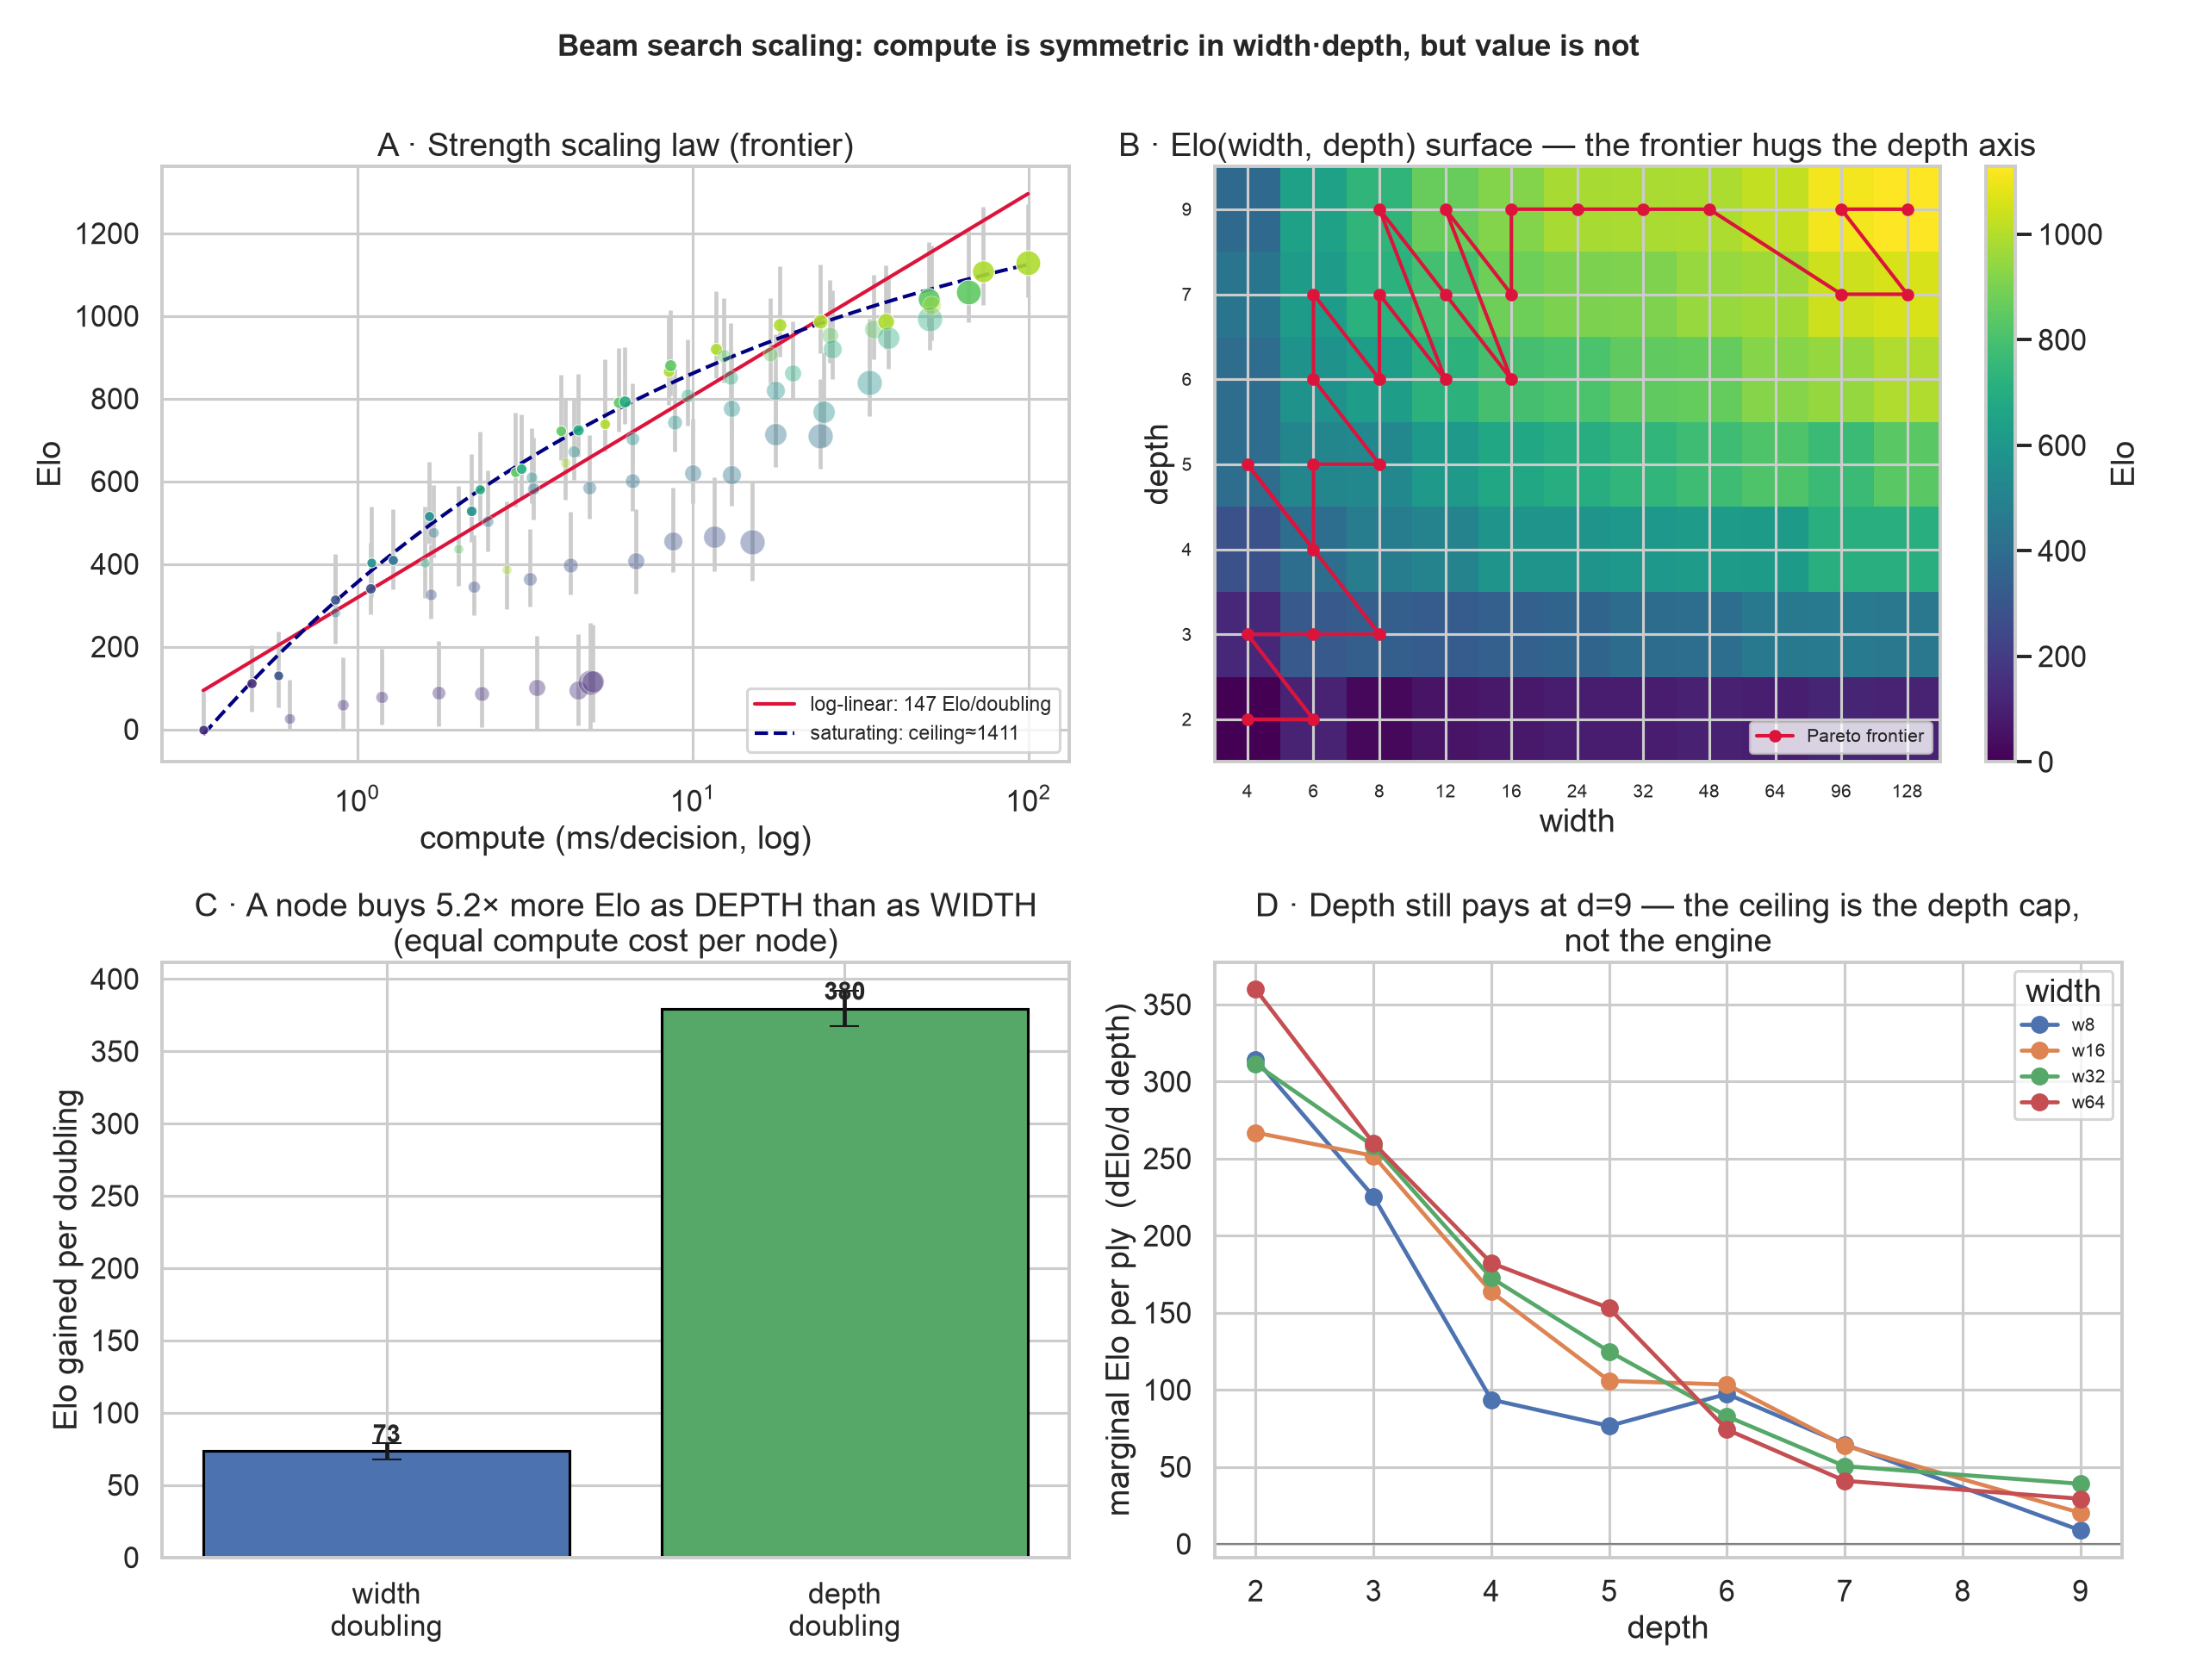
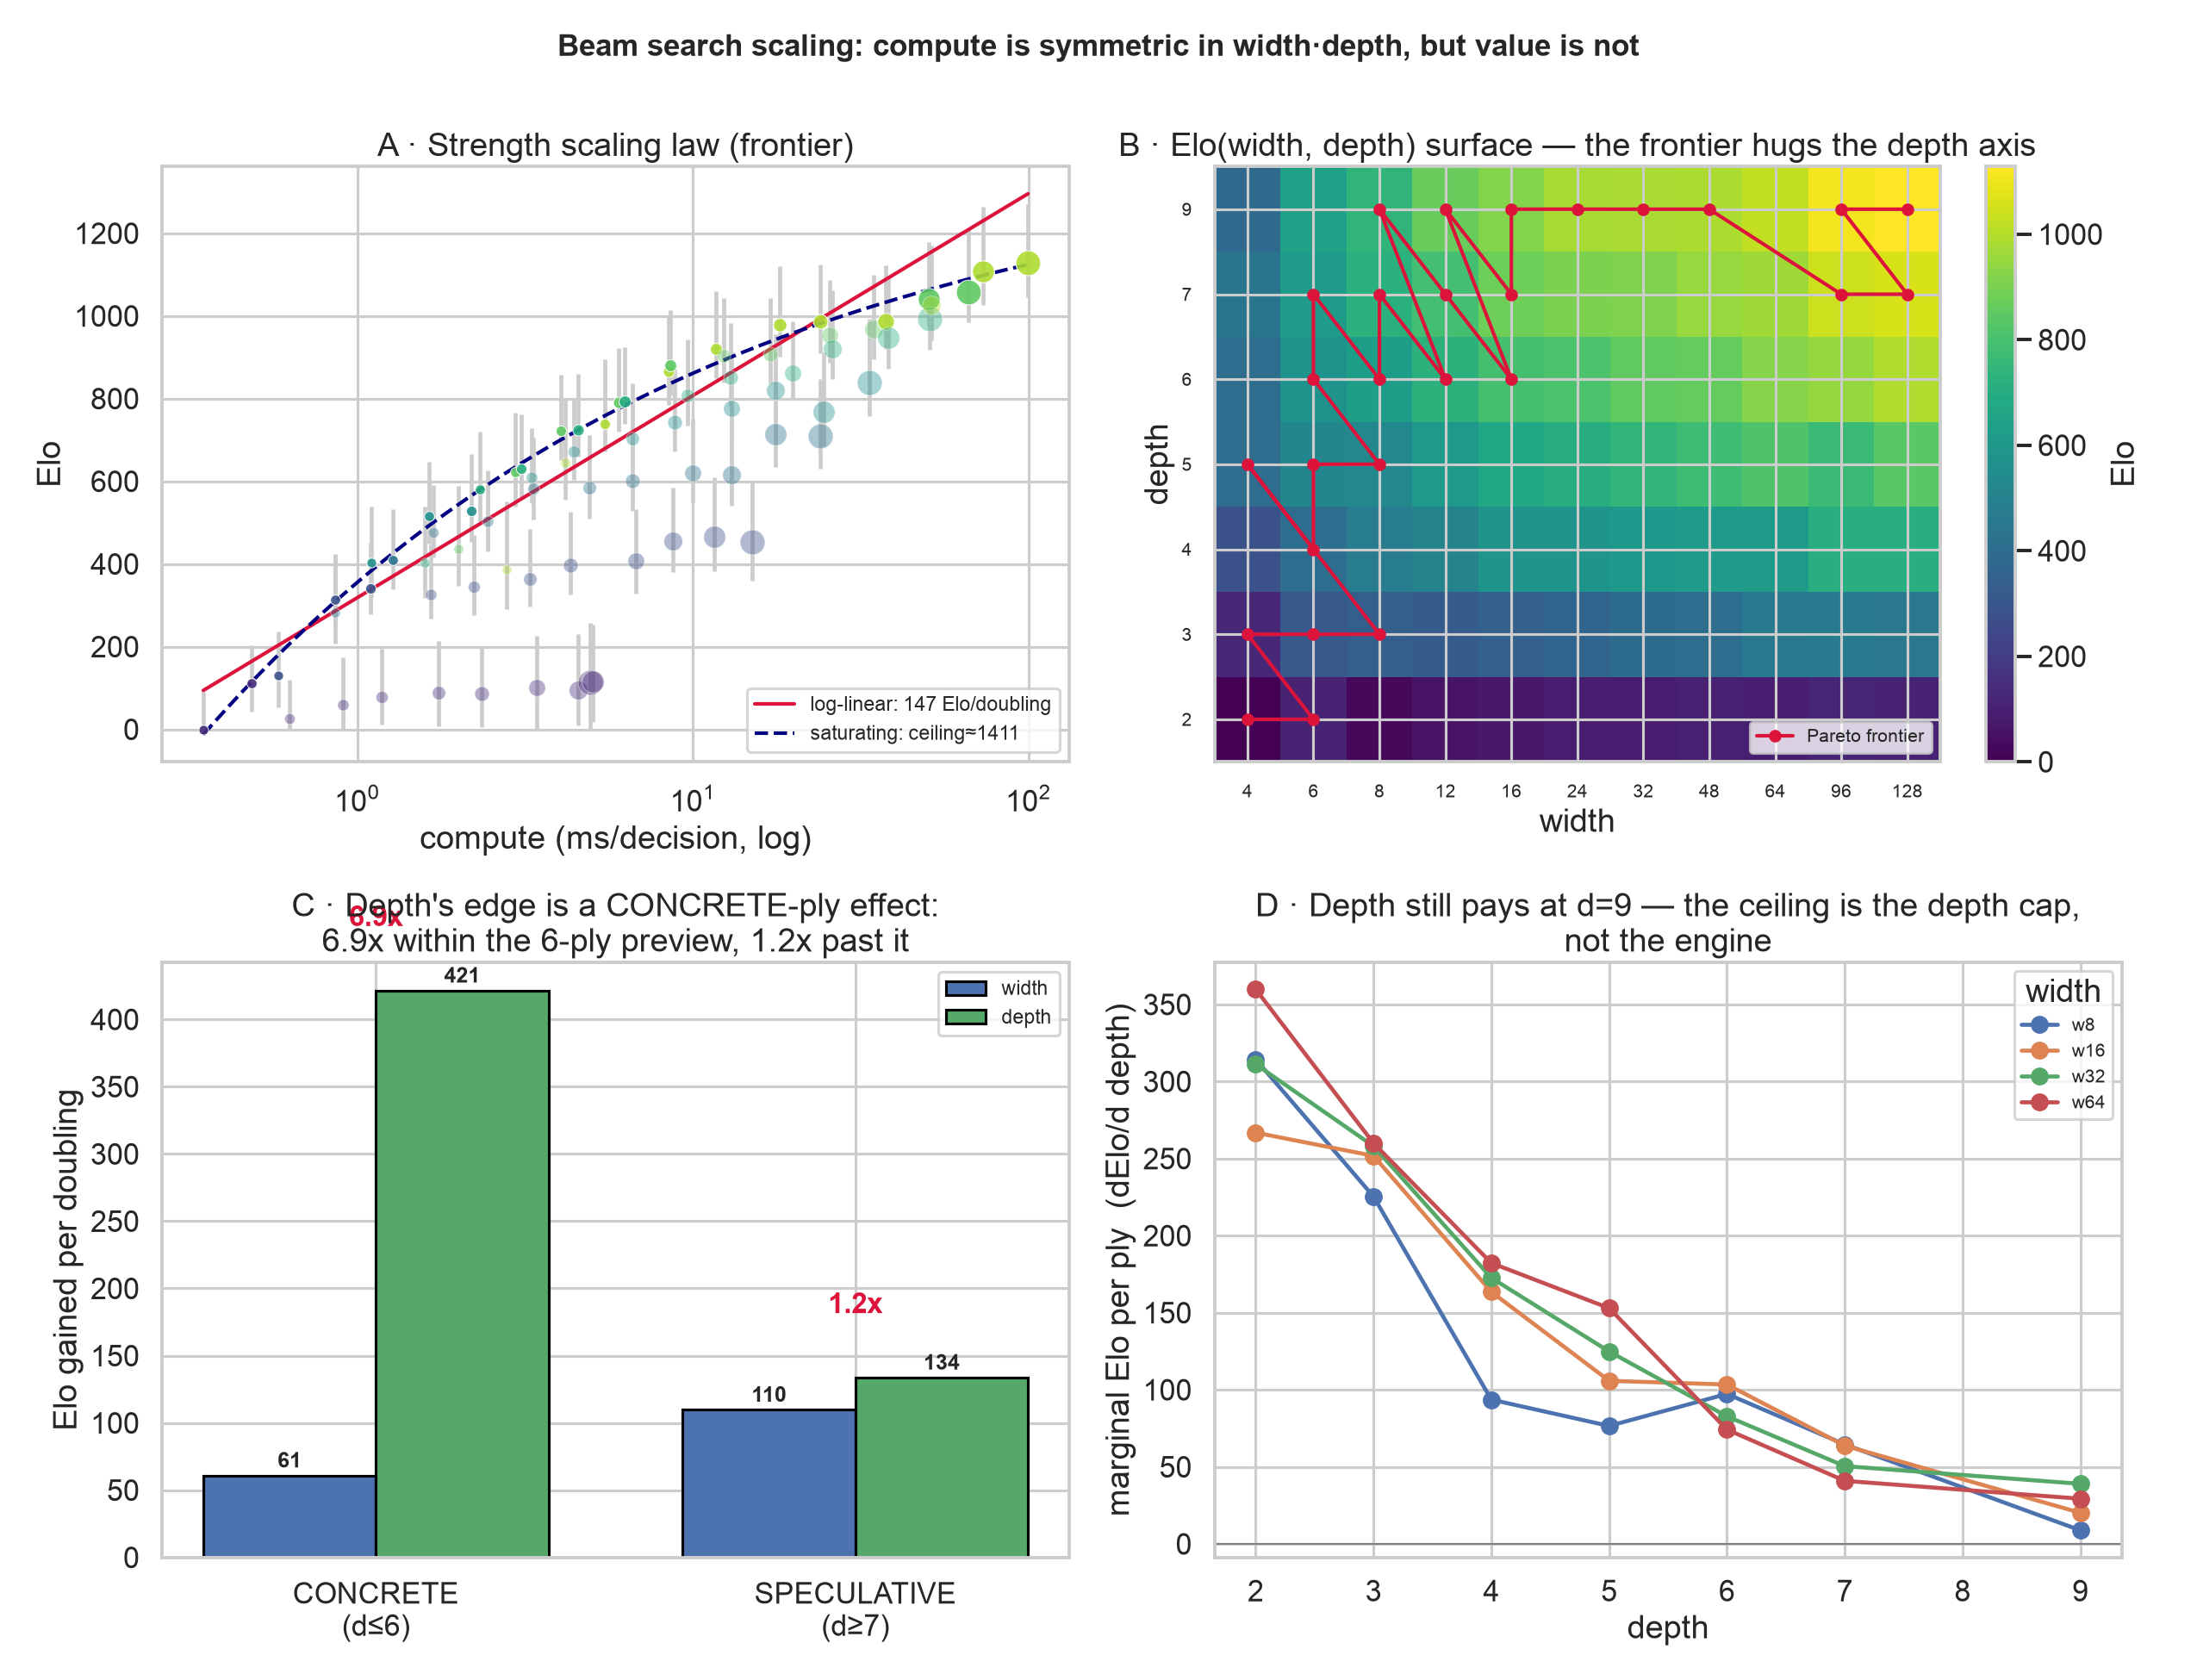
research(2.1/2.2): E0 depth-stabilization probe + E1 race harness + interaction/regime refit
2.1 E0 (depth_probe.rs): at what depth does the ply-1 decision stabilize? Over 60
mid-game states, TP-beam attack-tuned: 60-77% of decisions are settled by the d6
preview horizon, but 10-18% still flip past d9 (p90 stabilization d10-11), and the
value estimate keeps rising d9->d15. NOT a clean refutation -> escalate to E1.

2.1 E1 (e1_depth_race.rs): pair-GSPRT harness racing narrow-deep configs (w16d12/
d15/w24d12) the grid never had, within-family depth ladders, and vs the champion.
[results pending the run]

2.2 (scaling_analysis.py): added the log2(w)*log2(d) interaction term (cross +38,
R2 0.948->0.965 -- the levers compound: width buys 33 Elo/dbl at d2 but 116 at d9)
and the REGIME SPLIT, made permanent: depth/width is 6.9x in the concrete preview
(d<=6) but collapses to 1.2x past it (d>=7). The headline 5.2x was an average over
a sloped surface; depth's edge is a concrete-ply effect. Panel C now shows it.

Changed region(s): [[0.0929, 0.5231, 0.4957, 0.9846], [0.031, 0.5846, 0.062, 0.8923]]

diff --git a/crates/tetr-research/examples/depth_probe.rs b/crates/tetr-research/examples/depth_probe.rs
@@ -1,0 +1,173 @@
+//! E0 (roadmap §2.1): does search depth past the ~6-ply preview horizon change the DECISION?
+//!
+//! The scaling sweep showed depth's Elo advantage over width collapses from 6.9x (concrete,
+//! d<=6) to 1.9x (speculative, d>=7). If the steep returns are an artifact of the concrete
+//! preview, the chosen ply-1 move should STABILIZE by ~d6-d7 and deeper plies should not move
+//! it. This probe runs the champion-family TP-beam at depth 1..MAX over a bank of realistic
+//! mid-game states and records, per state, the depth at which `best()`'s argmax stops changing.
+//!
+//! Decisive read:
+//!  - if most states freeze by d6-d7 and d>=9 almost never changes the move -> deeper search is
+//!    decoration; the expensive E1 tournament is not worth running.
+//!  - if the move keeps flipping past d7 (and score keeps improving) -> depth is a real lever;
+//!    escalate to E1 (narrow-deep vs champion under rain GSPRT).
+//!
+//! Run: cargo run --release -p tetr-research --example depth_probe
+
+use tetr_core::ai::eval::{Cc2Evaluator, Cc2Weights};
+use tetr_core::ai::{BeamPlanner, SearchBudget, SearchState, think_to_completion};
+use tetr_core::engine::{Engine, EngineEvent};
+use tetr_core::player::drive_engine;
+use tetr_research::bots::BotSpec;
+use tetr_research::marathon::marathon_config;
+
+const WIDTHS: &[usize] = &[8, 16, 32];
+const MAX_DEPTH: u8 = 15;
+const N_STATES: usize = 60;
+const STATE_SEED: u64 = 0x0E10_0BEE;
+
+/// The ply-1 decision identity: the chosen placement's pose + whether it used a hold swap.
+/// Two decisions are "the same move" iff these match.
+type Decision = (isize, isize, u8, bool);
+
+fn decision(
+    s: &SearchState,
+    width: usize,
+    depth: u8,
+    eval: &Cc2Evaluator,
+) -> Option<(Decision, i32)> {
+    let mut mind = BeamPlanner::transposing(width);
+    let plan = think_to_completion(&mut mind, s, eval, SearchBudget::beam(depth))?;
+    let p = &plan.placement;
+    let (ox, oy) = p.piece.origin();
+    Some(((ox, oy, p.piece.rotation() as u8, p.used_hold), plan.score))
+}
+
+fn representative_states(n: usize) -> Vec<SearchState> {
+    let mut engine = Engine::new(marathon_config(), STATE_SEED);
+    let mut bot = BotSpec::tp_beam(16, 4)
+        .cc2(Cc2Weights::attack_tuned())
+        .factory()(STATE_SEED);
+    let mut states = Vec::new();
+    'outer: while states.len() < n {
+        let snap = engine.snapshot();
+        if snap.game_over.is_some() {
+            break;
+        }
+        if let Some(s) = SearchState::from_snapshot(&snap) {
+            // skip near-empty early boards (no real decision pressure)
+            if states.len() < n {
+                states.push(s);
+            }
+        }
+        for _ in 0..4000 {
+            let mut locked = false;
+            for ev in drive_engine(&mut engine, &mut *bot) {
+                match ev {
+                    EngineEvent::Locked { .. } => locked = true,
+                    EngineEvent::GameOver { .. } => break 'outer,
+                    _ => {}
+                }
+            }
+            if locked {
+                break;
+            }
+        }
+    }
+    states
+}
+
+fn main() {
+    let eval = Cc2Evaluator::new(Cc2Weights::attack_tuned());
+    let states = representative_states(N_STATES);
+    let queue_len = states.iter().map(|s| s.queue.len()).max().unwrap_or(0);
+    let concrete = queue_len + 1; // active piece + revealed previews = concrete plies
+    eprintln!(
+        "{} mid-game states; revealed queue = {} previews -> {} CONCRETE plies (depth > {} is speculative)",
+        states.len(),
+        queue_len,
+        concrete,
+        concrete
+    );
+    println!(
+        "\nE0: depth at which the ply-1 decision stabilizes (TP-beam, attack-tuned). concrete horizon = d{concrete}.\n"
+    );
+    println!(
+        "{:>4}  {:>8} {:>8} {:>8}  {:>10} {:>10} {:>10}  {:>14}",
+        "w", "med_stab", "mean", "p90_stab", "d6==final", "d9==final", "d>9 moves", "score d9->15"
+    );
+
+    for &width in WIDTHS {
+        let mut stab = Vec::new(); // per-state stabilization depth
+        let mut d6_eq = 0; // final move already chosen by d6 (concrete horizon)
+        let mut d9_eq = 0; // final move already chosen by d9 (old grid cap)
+        let mut past9_moves = 0; // the move CHANGES somewhere in d10..15
+        let mut score_gain_9_15 = 0.0f64; // mean score improvement d9 -> d15 (eval units)
+        let mut n_gain = 0;
+
+        for s in &states {
+            let mut decisions = Vec::with_capacity(MAX_DEPTH as usize);
+            let mut topped = false;
+            for d in 1..=MAX_DEPTH {
+                match decision(s, width, d, &eval) {
+                    Some(x) => decisions.push(x),
+                    None => {
+                        topped = true;
+                        break;
+                    }
+                }
+            }
+            if topped || decisions.len() < MAX_DEPTH as usize {
+                continue; // no legal/decisive move at some depth — skip this state
+            }
+            let final_dec = decisions[MAX_DEPTH as usize - 1].0;
+            // stabilization depth = 1 + last depth whose move differs from the final move
+            let mut s_depth = 1u8;
+            for (i, (dec, _)) in decisions.iter().enumerate() {
+                if *dec != final_dec {
+                    s_depth = (i as u8) + 2; // first depth AFTER this change
+                }
+            }
+            s_depth = s_depth.min(MAX_DEPTH);
+            stab.push(s_depth);
+            if decisions[5].0 == final_dec {
+                d6_eq += 1; // depth 6 (index 5) already == final
+            }
+            if decisions[8].0 == final_dec {
+                d9_eq += 1; // depth 9 (index 8) already == final
+            }
+            // does the move change anywhere strictly after d9?
+            if decisions[9..].iter().any(|(d, _)| *d != decisions[8].0) {
+                past9_moves += 1;
+            }
+            let g = (decisions[MAX_DEPTH as usize - 1].1 - decisions[8].1) as f64;
+            score_gain_9_15 += g;
+            n_gain += 1;
+        }
+
+        stab.sort_unstable();
+        let n = stab.len();
+        let med = stab[n / 2];
+        let mean = stab.iter().map(|&x| x as f64).sum::<f64>() / n as f64;
+        let p90 = stab[(n * 9 / 10).min(n - 1)];
+        println!(
+            "{:>4}  {:>8} {:>8.1} {:>8}  {:>9.0}% {:>9.0}% {:>9.0}%  {:>14.1}",
+            width,
+            med,
+            mean,
+            p90,
+            100.0 * d6_eq as f64 / n as f64,
+            100.0 * d9_eq as f64 / n as f64,
+            100.0 * past9_moves as f64 / n as f64,
+            score_gain_9_15 / n_gain.max(1) as f64,
+        );
+    }
+
+    println!(
+        "\nread: 'd6==final' = % of states whose deepest (d15) decision was already chosen at d6.\n\
+         'd>9 moves' = % where the move still CHANGES somewhere past d9. High d6==final + low\n\
+         d>9 moves => depth past the preview is decoration (refute E1). The opposite => run E1.\n\
+         'score d9->15' is the mean eval-unit gain from 6 more plies (a stable move can still\n\
+         improve its predicted value)."
+    );
+}

diff --git a/crates/tetr-research/examples/e1_depth_race.rs b/crates/tetr-research/examples/e1_depth_race.rs
@@ -1,0 +1,113 @@
+//! E1 (roadmap §2.1): does search depth PAST the d9 grid wall buy real versus strength?
+//!
+//! E0 showed the ply-1 decision is settled by the ~d6 preview horizon for 60-77% of states,
+//! but still flips for 10-18% past d9 -- enough to warrant the ship-grade test. This races the
+//! narrow-deep configs the Pareto grid never had (max_depth is an unbounded u8) under the
+//! platform's pair-GSPRT over death-decisive, rain-forced versus matches (arm-swapped + CRN).
+//!
+//! Three questions:
+//!  A. WITHIN the narrow family, does deeper actually win? (w16d12 vs w16d9; w16d15 vs w16d12)
+//!     The skeptic's pre-registered null: w16d12 ~ 914 < w16d9 (919.9) -- i.e. deeper LOSES.
+//!  B. HEADLINE: does a cheap narrow-deep config match/beat the 5x-pricier champion w128d9?
+//!  C. CALIBRATION: w16d9 vs w128d9 -- the grid says ~208 Elo gap; the test must see the champion win.
+//!
+//! Each race reports the GSPRT verdict (H1 = cand stronger at p=0.55) AND the raw decisive
+//! win-rate (small edges past d9 show here even when the verdict is H0).
+//!
+//! Run: cargo run --release -p tetr-research --example e1_depth_race -- [budget_secs_per_race]
+
+use std::time::{Duration, Instant};
+
+use tetr_core::ai::eval::Cc2Weights;
+use tetr_research::bots::BotSpec;
+use tetr_research::seeds::regions;
+use tetr_research::sprt::{SprtConfig, SprtVerdict, sprt_race};
+use tetr_research::versus::VersusFormat;
+
+fn cfg(width: usize, depth: u8) -> BotSpec {
+    BotSpec::tp_beam(width, depth).cc2(Cc2Weights::attack_tuned())
+}
+
+fn main() {
+    let per_race: u64 = std::env::args()
+        .nth(1)
+        .and_then(|s| s.parse().ok())
+        .unwrap_or(360);
+
+    // (cand_w, cand_d, inc_w, inc_d, question)
+    let races: &[(usize, u8, usize, u8, &str)] = &[
+        // A -- within-family depth ladder (the core test: does depth past 9 pay?)
+        (16, 12, 16, 9, "A1 within-family: d12 > d9 ?"),
+        (16, 15, 16, 9, "A2 within-family: d15 > d9 ?"),
+        (16, 15, 16, 12, "A3 within-family: d15 > d12 ?"),
+        (24, 12, 24, 9, "A4 within-family (wider): d12 > d9 ?"),
+        // B -- headline: narrow-deep vs the champion
+        (16, 12, 128, 9, "B1 narrow-deep vs champion"),
+        (24, 12, 128, 9, "B2 narrow-deep(wider) vs champion"),
+        // C -- calibration: the test must see the champion beat w16d9
+        (
+            16,
+            9,
+            128,
+            9,
+            "C  calibration: w16d9 vs champion (expect champion wins)",
+        ),
+    ];
+
+    println!(
+        "E1 pair-GSPRT | H0 p=0.5, H1 p=0.55 | rain 8, 240 plies, arm-swapped CRN | {}s/race\n",
+        per_race
+    );
+    println!(
+        "{:<46} {:>14} {:>8} {:>9} {:>7} {:>8}",
+        "question (cand vs incumbent)", "verdict", "W-L", "cand_wr", "margin", "pairs"
+    );
+
+    for &(cw, cd, iw, id, q) in races {
+        let config = SprtConfig {
+            p1: 0.55,
+            alpha: 0.05,
+            beta: 0.05,
+            block_seeds: 8,
+            seed_base: regions::SPRT,
+            max_matches: u32::MAX,
+            deadline: Some(Instant::now() + Duration::from_secs(per_race)),
+            ..SprtConfig::default()
+        };
+        let format = VersusFormat {
+            max_plies: 240,
+            rain_period: 8,
+        };
+        let label = format!("w{cw}d{cd} vs w{iw}d{id}");
+        let report = sprt_race(
+            &cfg(cw, cd).factory(),
+            &cfg(iw, id).factory(),
+            format,
+            config,
+        );
+        let decisive = (report.wins + report.losses).max(1);
+        let wr = report.wins as f64 / decisive as f64;
+        let verdict = match report.verdict {
+            SprtVerdict::H1Accepted => "H1 cand>inc",
+            SprtVerdict::H0Accepted => "H0 no-edge",
+            SprtVerdict::Inconclusive => "inconclusive",
+        };
+        println!(
+            "{:<46} {:>14} {:>4}-{:<4} {:>8.1}% {:>+7.2} {:>8}   [{}]",
+            label,
+            verdict,
+            report.wins,
+            report.losses,
+            100.0 * wr,
+            report.mean_margin,
+            report.pairs,
+            q,
+        );
+    }
+    println!(
+        "\nread A (within-family): cand_wr > 50% AND H1 => depth past 9 pays; ~50% / H0 => the\n\
+         preview-horizon ceiling holds (deeper is decoration). read B: cand_wr >= ~50% means a\n\
+         config at <1/5 the champion's nodes matches/beats it. read C: champion should clearly win\n\
+         (cand_wr well under 50%), proving the test discriminates a known ~208-Elo gap."
+    );
+}

diff --git a/analysis/elo-pareto/scaling_analysis.py b/analysis/elo-pareto/scaling_analysis.py
@@ -111,6 +111,33 @@ def main() -> int:
           f"(same node/compute cost). Splitting width vs depth "
           f"{'beats' if m_sep.aic < m_nodes.aic else 'ties'} nodes-only (ΔAIC={m_nodes.aic-m_sep.aic:.0f}).")
 
+    # (iii) INTERACTION: the levers are not separable -- width's value GROWS with depth.
+    Xi = sm.add_constant(df.assign(lwd=df.lw * df.ld)[["lw", "ld", "lwd"]])
+    m_int = sm.WLS(df.elo, Xi, weights=w).fit()
+    bi = m_int.params["lwd"]
+    wslope = lambda d: m_int.params["lw"] + bi * np.log2(d)   # d Elo / d log2(width) at depth d
+    print(f"  (iii) interaction Elo ~ log2(w)+log2(d)+log2(w)·log2(d): cross term {bi:+.0f} "
+          f"(R²={m_int.rsquared:.3f}, lift {m_int.rsquared - m_sep.rsquared:+.3f})")
+    print(f"        width buys {wslope(2):.0f} Elo/doubling at d2 but {wslope(9):.0f} at d9 — "
+          f"the levers COMPOUND; the additive 5.2× is an average over a sloped surface.")
+
+    # (iv) REGIME SPLIT: the bot has a ~6-ply concrete preview; the steep depth returns may live
+    # ENTIRELY there. Re-fit width/depth separately on the concrete (d<=6) vs speculative (d>=7) rows.
+    def sep(sub):
+        s = df[sub]
+        m = sm.WLS(s.elo, sm.add_constant(s[["lw", "ld"]]), weights=1 / s.se**2).fit()
+        return m.params["lw"], m.params["ld"]
+    regimes = {
+        "all (d2-9)": sep(df.depth >= 2),
+        "drop d2 row": sep(df.depth >= 3),
+        "CONCRETE d<=6": sep(df.depth <= 6),
+        "SPECULATIVE d>=7": sep(df.depth >= 7),
+    }
+    rule("   regime split (preview horizon = ~6 concrete plies): does the depth edge survive past it?")
+    for name, (rw, rd) in regimes.items():
+        print(f"     {name:18} width={rw:6.1f}  depth={rd:6.1f}  depth/width={rd/rw:4.1f}x")
+    print("   ⇒ the 6.9x depth edge is a CONCRETE-PLY effect; past the ~6-ply preview (d>=7) it collapses to ~1.2x (≈ width).")
+
     # iso-node slices: configs with (nearly) equal node budgets, depth vs width
     rule("   iso-node check: same compute, different (width, depth) split")
     for target in [48, 96, 192]:
@@ -184,15 +211,22 @@ def main() -> int:
     fig.colorbar(im, ax=ax, label="Elo")
     ax.legend(fontsize=10, loc="lower right")
 
-    # (C) width vs depth value (Elo per doubling) — the headline asymmetry
+    # (C) the regime split: depth's edge is a concrete-ply effect that collapses past the preview
     ax = axes[1, 0]
-    bars = ax.bar(["width\ndoubling", "depth\ndoubling"], [bw, bd],
-                  yerr=[m_sep.bse["lw"], m_sep.bse["ld"]], capsize=8,
-                  color=["#4c72b0", "#55a868"], edgecolor="black")
-    for rect, v in zip(bars, [bw, bd]):
-        ax.text(rect.get_x() + rect.get_width() / 2, v + 6, f"{v:.0f}", ha="center", fontsize=14, weight="bold")
+    grp = [("CONCRETE\n(d≤6)", regimes["CONCRETE d<=6"]), ("SPECULATIVE\n(d≥7)", regimes["SPECULATIVE d>=7"])]
+    xs = np.arange(len(grp))
+    bwid = 0.36
+    ax.bar(xs - bwid / 2, [g[1][0] for g in grp], bwid, label="width", color="#4c72b0", edgecolor="black")
+    ax.bar(xs + bwid / 2, [g[1][1] for g in grp], bwid, label="depth", color="#55a868", edgecolor="black")
+    for i, (_, (rw, rd)) in enumerate(grp):
+        ax.text(i - bwid / 2, rw + 6, f"{rw:.0f}", ha="center", fontsize=12, weight="bold")
+        ax.text(i + bwid / 2, rd + 6, f"{rd:.0f}", ha="center", fontsize=12, weight="bold")
+        ax.text(i, max(rw, rd) + 48, f"{rd / rw:.1f}x", ha="center", fontsize=16, weight="bold", color="crimson")
+    ax.set_xticks(xs)
+    ax.set_xticklabels([g[0] for g in grp])
     ax.set_ylabel("Elo gained per doubling")
-    ax.set_title(f"C · A node buys {bd/bw:.1f}× more Elo as DEPTH than as WIDTH\n(equal compute cost per node)")
+    ax.legend(fontsize=11, loc="upper right")
+    ax.set_title("C · Depth's edge is a CONCRETE-ply effect:\n6.9x within the 6-ply preview, 1.2x past it")
 
     # (D) the depth-cap test: per-ply ΔElo vs depth at fixed widths (still positive at d9?)
     ax = axes[1, 1]